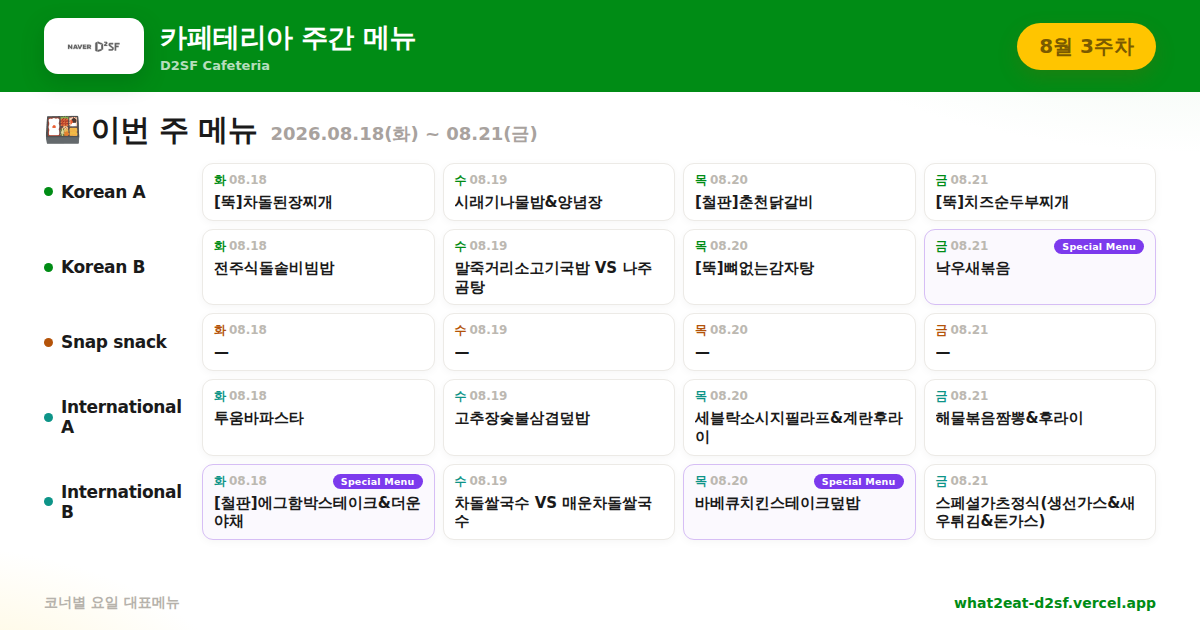
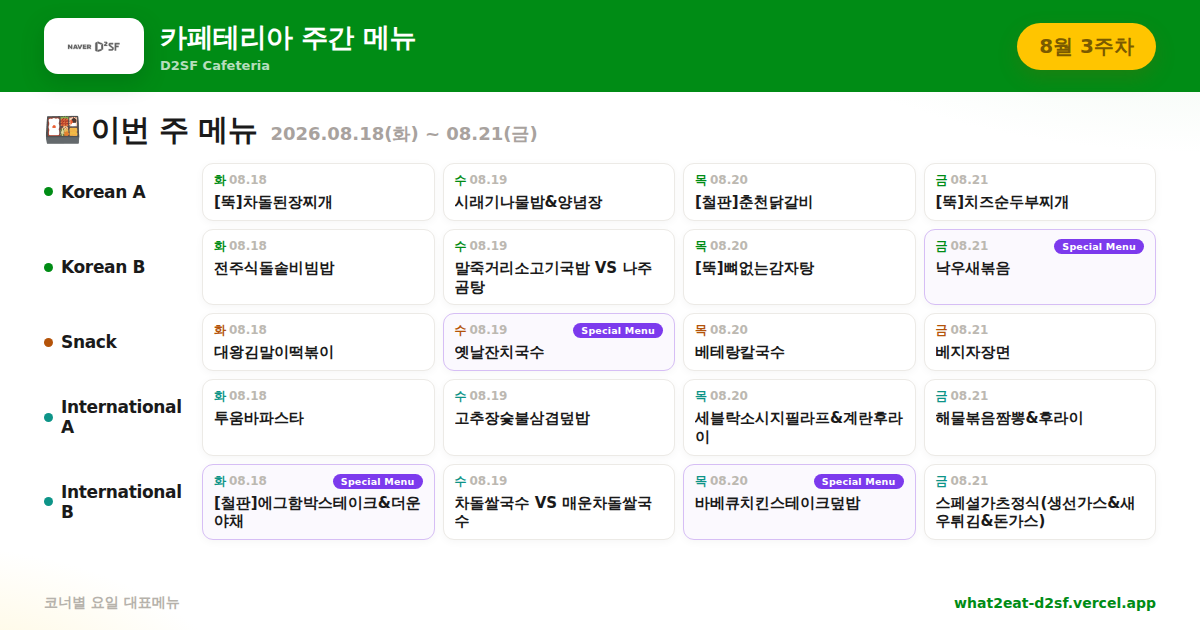
OG 프리뷰 수정: Snack 코너 매칭 버그 + 캐시버스터 r=12
generate-og.mjs가 코너명 "Snack"을 못 찾아 Snap snack 행이 전부 빈칸(—)으로
생성되던 문제 수정. 전 주차 OG 재생성. index.html og:image r=11->r=12로 캐시 갱신.

Claude-Session: https://claude.ai/code/session_01CCk7kE6nDbFDt1BnXJzGQQ

diff --git a/index.html b/index.html
@@ -20,13 +20,13 @@
     <meta property="og:url" content="https://what2eat-d2sf.vercel.app/" />
     <meta property="og:title" content="D2SF 카페테리아 — 이번 주 메뉴" />
     <meta property="og:description" content="🍴 오늘 뭐 먹지? 메뉴 검색부터 칼로리 분석까지, 점심 고민은 여기서 끝" />
-    <meta property="og:image" content="https://what2eat-d2sf.vercel.app/api/og?r=11" />
+    <meta property="og:image" content="https://what2eat-d2sf.vercel.app/api/og?r=12" />
     <meta property="og:image:width" content="1200" />
     <meta property="og:image:height" content="630" />
     <meta name="twitter:card" content="summary_large_image" />
     <meta name="twitter:title" content="D2SF 카페테리아 — 이번 주 메뉴" />
     <meta name="twitter:description" content="🍴 오늘 뭐 먹지? 메뉴 검색부터 칼로리 분석까지, 점심 고민은 여기서 끝" />
-    <meta name="twitter:image" content="https://what2eat-d2sf.vercel.app/api/og?r=11" />
+    <meta name="twitter:image" content="https://what2eat-d2sf.vercel.app/api/og?r=12" />
     <!-- /OG -->
   </head>
   <body>
